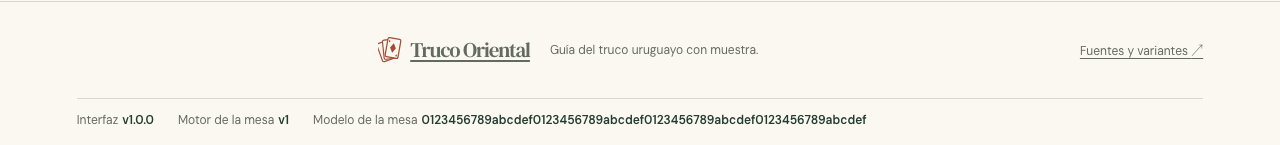
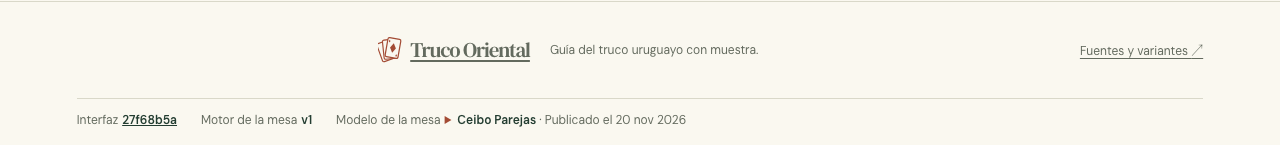
Mostrar el nombre y la fecha de publicación de cada modelo

Changed region(s): [[0.0938, 0.7724, 0.6875, 0.8828]]

diff --git a/src/components/jugar/Sala.tsx b/src/components/jugar/Sala.tsx
@@ -1,4 +1,6 @@
 import { useEffect, useRef, useState } from "react";
+import { createPortal } from "react-dom";
+import FichaModelo from "../FichaModelo";
 import {
   ErrorMesa,
   idComando,
@@ -233,17 +235,13 @@ function MesaAbierta({
   useEffect(() => {
     if (!enMesa) return;
     const motor = document.getElementById("version-motor-mesa");
-    const modelo = document.getElementById("version-modelo-mesa");
-    if (!motor || !modelo) return;
+    if (!motor) return;
     const sinMotor = motor.textContent;
-    const sinModelo = modelo.textContent;
     motor.textContent = mesa?.versionReglas == null ? "Sin informar" : `v${mesa.versionReglas}`;
-    modelo.textContent = mesa?.politica || "Sin informar";
     return () => {
       motor.textContent = sinMotor;
-      modelo.textContent = sinModelo;
     };
-  }, [enMesa, mesa?.versionReglas, mesa?.politica]);
+  }, [enMesa, mesa?.versionReglas]);
   useEffect(() => {
     const clave = "truco.ultima-mesa." + jugador.id;
     try {
@@ -292,12 +290,18 @@ function MesaAbierta({
       </div>
     );
   if (!mesa) return <p role="status">Conectando con tu mesa…</p>;
+  const pieModelo = document.getElementById("version-modelo-mesa");
+  const formatoModelo = mesa.formato ?? { "1v1": "duel", "2v2": "pairs", "3v3": "triples" }[mesa.modo];
   const faltan = mesa.asientos.filter((a) => a.tipo === "vacio").length;
   const versionSenas = mesa.formato && mesa.formato !== "triples" ? signalVersionFor(mesa.formato) : null;
   const versionDesconocida = versionSenas && partida?.vista && partida.formato !== "triples" && partida.versionSenas !== versionSenas;
   const bloqueada = ocupado || !conectada || Boolean(versionDesconocida) || mostrandoCartas;
   return (
     <div ref={tablero}>
+      {pieModelo && createPortal(
+        mesa.politica ? <FichaModelo id={mesa.politica} formato={formatoModelo} /> : "Sin informar",
+        pieModelo,
+      )}
       <div className="j-barra">
         <span>
           {versionSenas ? "Parejas con señas" : modalidades[mesa.modo][1]} · {jugador.nombre}

diff --git a/src/lib/modelos.ts b/src/lib/modelos.ts
@@ -1,0 +1,40 @@
+interface EdicionModelo {
+  nombre: string;
+  publicado: string | null;
+}
+
+const ediciones = new Map<string, EdicionModelo>([
[3 lines of base64/hex data omitted]
+  ["incumbent-online-v1", { nombre: "Clásico v1", publicado: "2026-11-19" }],
+  ["tercetos-basica-v1", { nombre: "Clásico de tercetos v1", publicado: "2026-11-19" }],
+  ["bot-v1", { nombre: "Práctica v1", publicado: "2026-11-18" }],
+]);
+
+const nombresPorFormato = new Map([
+  ["duel", "Modelo de duelo"],
+  ["pairs", "Modelo de parejas"],
+  ["pairs-private-senas", "Modelo de parejas con señas"],
+  ["pairs-senas", "Modelo de parejas con señas"],
+  ["triples", "Modelo de tercetos"],
+]);
+
+export function edicionModelo(id: string, formato?: string): EdicionModelo {
+  const conocida = ediciones.get(id);
+  if (conocida) return conocida;
+
+  const nombre = nombresPorFormato.get(formato ?? "") ?? "Modelo de mesa";
+  let referencia = id;
+  if (/^[a-f0-9]{64}$/i.test(id)) referencia = id.slice(0, 12);
+  else if (id.length > 24) referencia = id.slice(0, 12) + "…" + id.slice(-8);
+  return { nombre: `${nombre} · ${referencia}`, publicado: null };
+}
+
+const fechaPublicacion = new Intl.DateTimeFormat("es-UY", {
+  day: "numeric", month: "short", year: "numeric", timeZone: "UTC",
+});
+
+export function fechaModelo(iso: string): string {
+  return fechaPublicacion.format(new Date(iso)).replace(".", "");
+}

diff --git a/tests/unit/modelos.test.ts b/tests/unit/modelos.test.ts
@@ -1,0 +1,32 @@
+import assert from "node:assert/strict";
+import test from "node:test";
+import { edicionModelo, fechaModelo } from "../../src/lib/modelos.ts";
+
+test("la huella o el alias completo identifica la edición publicada", () => {
+  const casos = [
[3 lines of base64/hex data omitted]
+    ["incumbent-online-v1", "Clásico v1", "2026-11-19"],
+    ["tercetos-basica-v1", "Clásico de tercetos v1", "2026-11-19"],
+    ["bot-v1", "Práctica v1", "2026-11-18"],
+  ];
+  for (const [id, nombre, publicado] of casos) {
+    assert.deepEqual(edicionModelo(id), { nombre, publicado });
+  }
+});
+
+test("los modelos sin catalogar conservan una referencia y tienen fecha desconocida", () => {
+  const prefijo = "d2146e8dd1b7";
+  const otraHuella = prefijo.padEnd(64, "0");
+  assert.deepEqual(edicionModelo(otraHuella, "duel"), { nombre: "Modelo de duelo · " + prefijo, publicado: null });
+  assert.deepEqual(edicionModelo(prefijo), { nombre: "Modelo de mesa · " + prefijo, publicado: null });
+  assert.deepEqual(edicionModelo("experimental-v3", "pairs-private-senas"), {
+    nombre: "Modelo de parejas con señas · experimental-v3", publicado: null,
+  });
+});
+
+test("la fecha civil de publicación se lee en español y conserva el día", () => {
+  assert.equal(fechaModelo("2026-11-20"), "20 nov 2026");
+  assert.equal(fechaModelo("2024-02-29"), "29 feb 2024");
+});

diff --git a/src/styles/site.css b/src/styles/site.css
@@ -502,9 +502,36 @@ footer {
 }
 .footer-versiones dd {
   margin: 0;
+  min-width: 0;
+  max-width: 100%;
   font-weight: 600;
   overflow-wrap: anywhere;
   color: var(--ink);
+}
+#version-modelo-mesa:not(:empty) + span {
+  display: none;
+}
+.ficha-modelo summary {
+  width: fit-content;
+  cursor: pointer;
+}
+.ficha-modelo summary:focus-visible {
+  outline-offset: 1px;
+}
+.ficha-modelo summary::marker {
+  color: var(--accent);
+}
+.modelo-publicacion,
+.modelo-identificador {
+  font-weight: 400;
+  color: var(--muted);
+}
+.modelo-identificador {
+  margin-block-start: 4px;
+}
+.modelo-identificador code {
+  color: var(--ink);
+  user-select: all;
 }
 .page-intro {
   background: var(--canvas);

diff --git a/src/components/FichaModelo.tsx b/src/components/FichaModelo.tsx
@@ -1,0 +1,15 @@
+import { edicionModelo, fechaModelo } from "../lib/modelos";
+
+export default function FichaModelo({ id, formato }: { id: string; formato?: string }) {
+  const { nombre, publicado } = edicionModelo(id, formato);
+  return (
+    <details className="ficha-modelo">
+      <summary>
+        {nombre} <span className="modelo-publicacion">· {publicado
+          ? <>Publicado el <time dateTime={publicado}>{fechaModelo(publicado)}</time></>
+          : "Fecha sin registrar"}</span>
+      </summary>
+      <div className="modelo-identificador"><span>Identificador</span> <code>{id}</code></div>
+    </details>
+  );
+}

diff --git a/api/README-politicas.md b/api/README-politicas.md
@@ -21,3 +21,9 @@ node scripts/medir-inferencia.ts pairs-private-senas /ruta/al/run/actor.json 24 
 ```
 
 El campeonato puede usar `playMatchAsync` de `training/arena/index.ts` con un respondedor por asiento. Este recibe la observación y el número uniforme generado por el árbitro para ese asiento. Una llamada a `servicio.decide(pin, observacion, uniforme)` usa el mismo lector de pesos, la misma selección y el mismo plazo que la API. El entrenamiento y los contadores del árbitro quedan fuera del servicio.
+
+## Nombre y fecha que ve el jugador
+
+El catálogo usa la huella completa del actor o el identificador del bot integrado. La fecha corresponde a la primera publicación comprobada, expresada en el calendario de Uruguay. Práctica v1 se publicó el 18 de noviembre de 2026. La publicación de Clásico v1 y Clásico de tercetos v1 en el VPS consta el 19 de noviembre. [Publicación de la práctica](https://github.com/flabat/truco-uruguayo/actions/runs/44367361710) · [Despliegue de los bots integrados](https://github.com/flabat/truco-uruguayo/issues/214#issuecomment-7027835056)
+
+Las tres ediciones Ceibo se activaron en producción el 20 de noviembre de 2026. Al publicar una edición nueva, agregá al catálogo su PIN completo, el nombre que verá el jugador y la fecha documentada de su primera publicación. Guardá el comprobante de activación en el issue y enlazalo aquí. Un modelo sin publicación documentada conserva su referencia y figura sin fecha. [Activación de Ceibo](https://github.com/flabat/truco-uruguayo/issues/251#issuecomment-7043360261) · [Catálogo de ediciones](../src/lib/modelos.ts)
